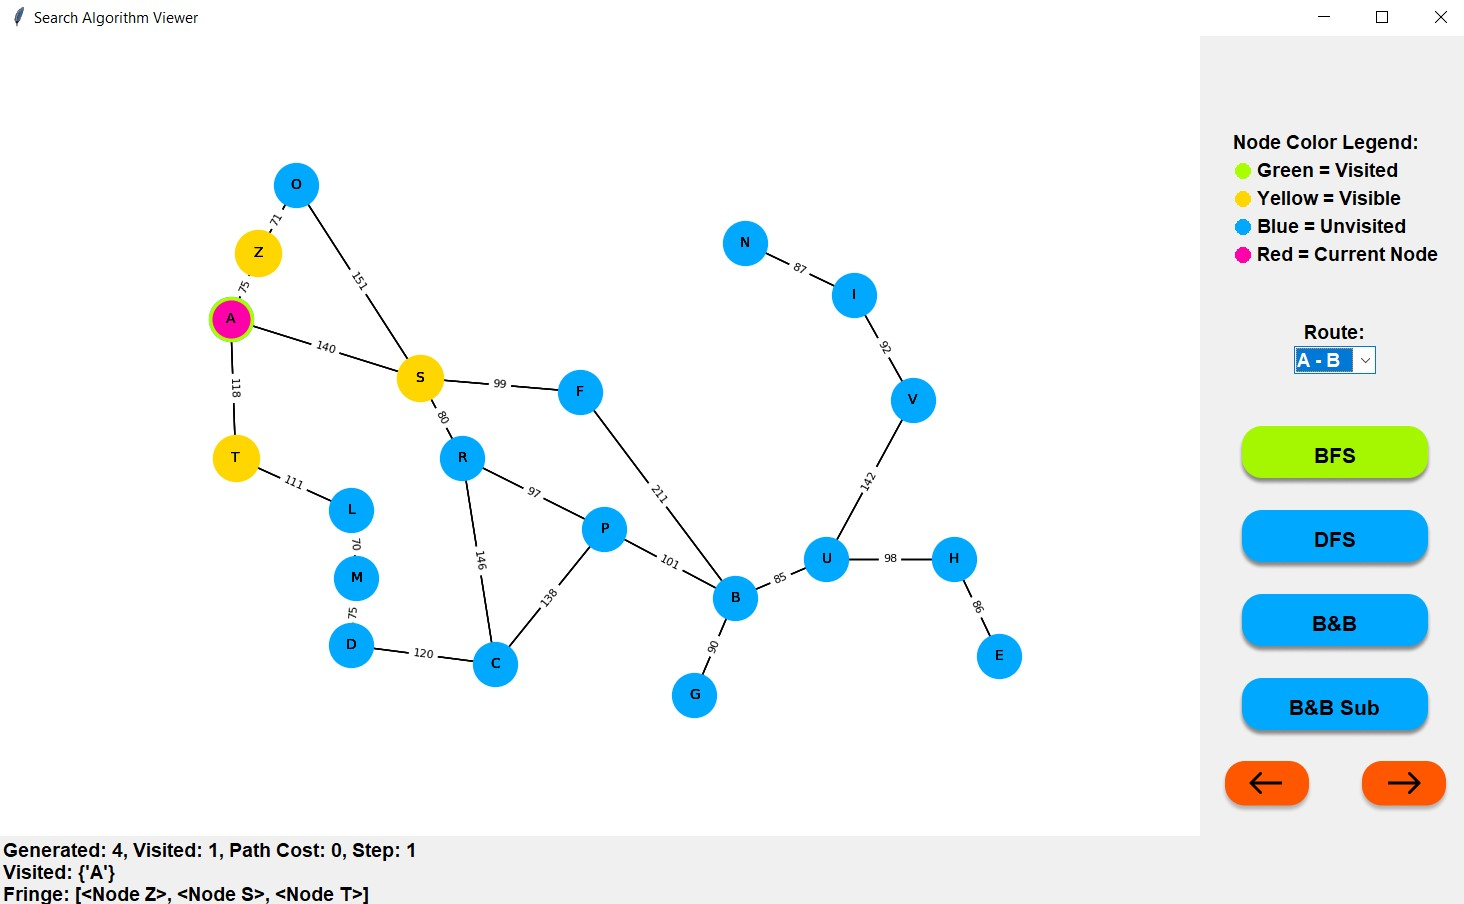
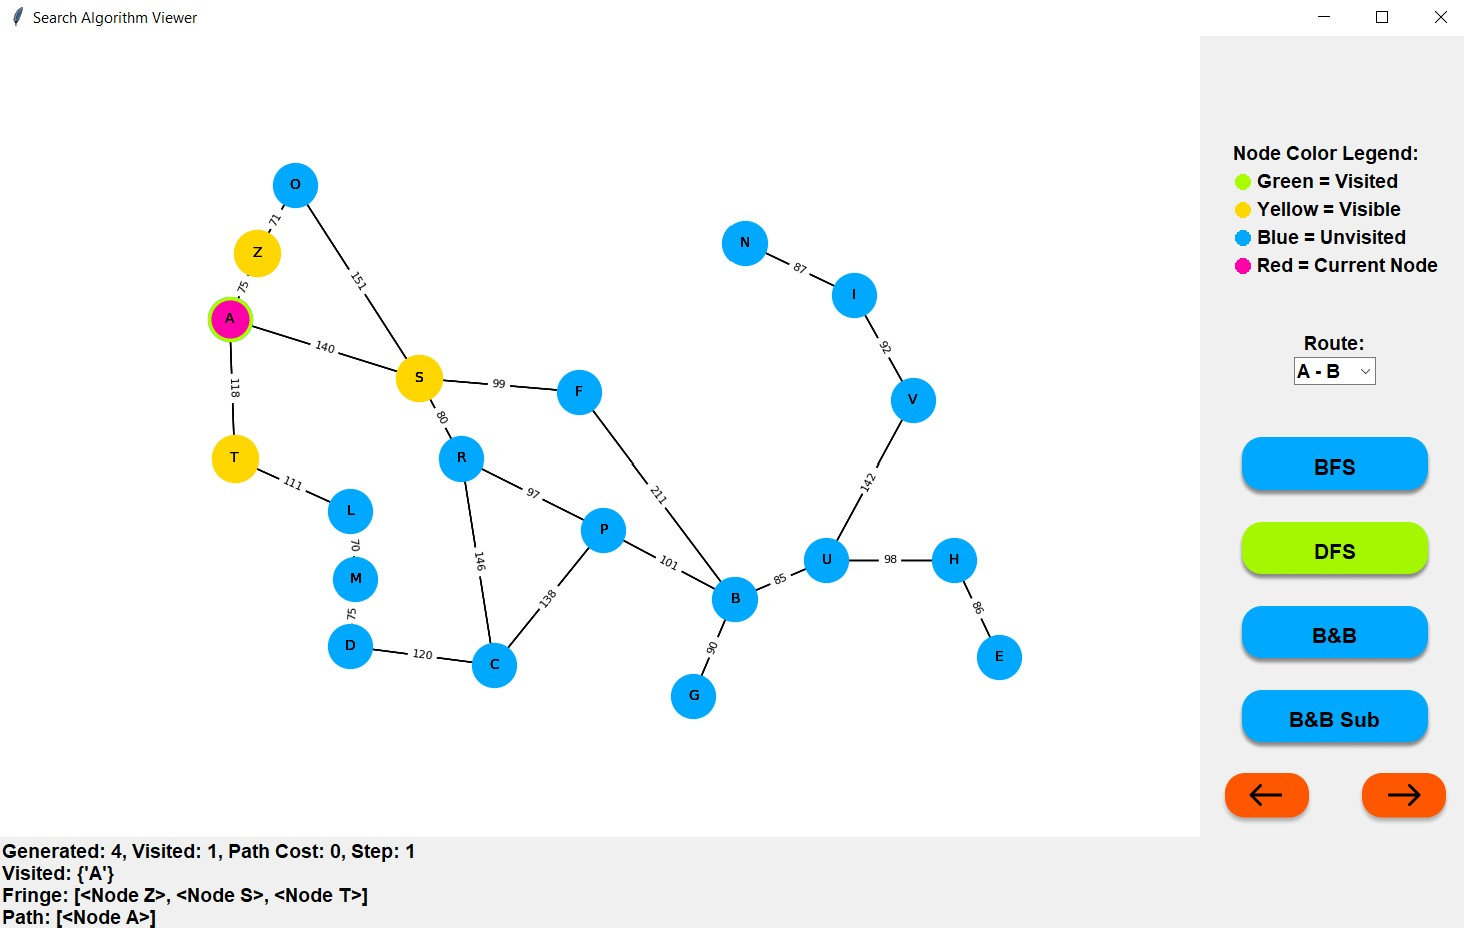
Finished UI and README.md

diff --git a/ui/graph_visualizer.py b/ui/graph_visualizer.py
@@ -89,7 +89,7 @@ class GraphVisualizer:
         # status_label.config(text="Search completed.")
         print("Search completed")
         # Dibujamos el camino
-        print("LAST: ", self.last_path)
+        print("Final path: ", self.last_path)
 
         final_path_nodes = [node.state for node in self.last_path]
         nx.draw_networkx_nodes(self.graph_data.G, self.graph_data.pos, nodelist=final_path_nodes, node_color='black', node_size=1300)
@@ -97,11 +97,10 @@ class GraphVisualizer:
         # Dibujar las etiquetas de los nodos del camino en blanco
         nx.draw_networkx_labels(self.graph_data.G, self.graph_data.pos, labels={n: n for n in final_path_nodes}, font_color='white', font_size=10)
 
-
     def advance_graph(self):
         try:
             self.generated, self.visited, self.path_cost, self.path, self.closed, self.fringe = self.search.next()
-            self.position += 1 # Almacenamos la posicion del iterador
+            self.position += 1 # Save current iteration
             self.last_path = self.path.copy()
             self.update_graph()
         except StopIteration:

diff --git a/ui/GUI.py b/ui/GUI.py
@@ -159,7 +159,7 @@ class GUI:
             # Updates te bottom label with current values
             self.status_label.config(
                 text=f"Generated: {generated}, Visited: {visited}, Path Cost: {path_cost}, Step: {position}\n"
-                     f"Visited: {closed}\nFringe: {fringe}",
+                     f"Visited: {closed}\nFringe: {fringe}\nPath: {list(reversed(path))}",
                 font=self.custom_font,
                 fg="black"
             )
